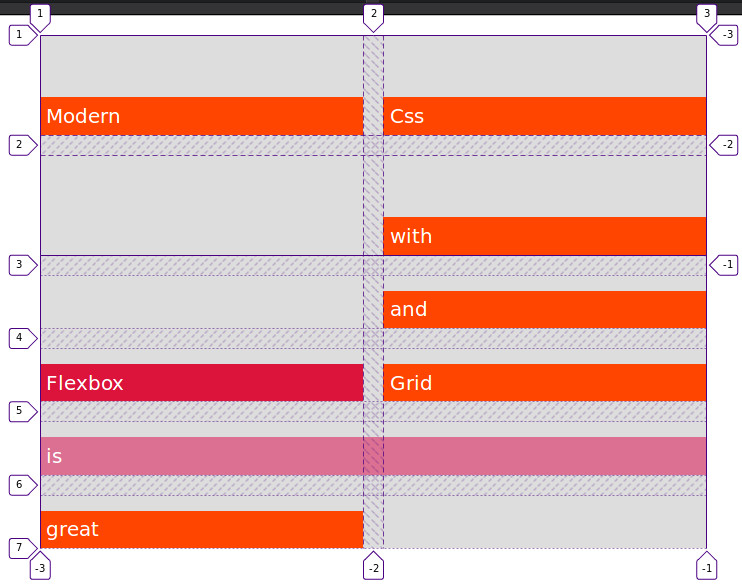
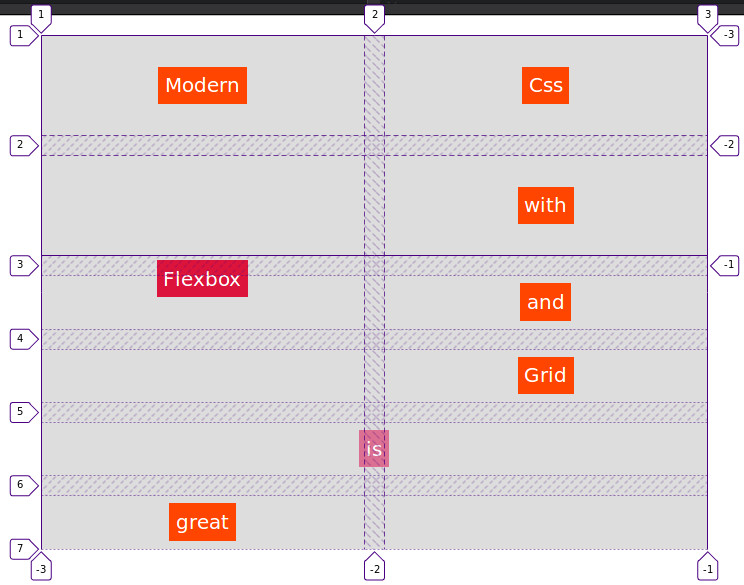
Center items at the start of the row

diff --git a/scss/style.scss b/scss/style.scss
@@ -13,7 +13,7 @@
   grid-auto-columns: .5fr;
   
   align-items: center; //STRETCH / center / end / start (STRETCH is default)
-  justify-items: center;
+  justify-items: start;
   
   .item {
     padding: 20px;
